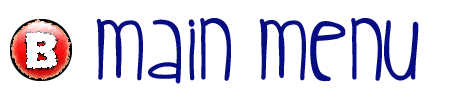
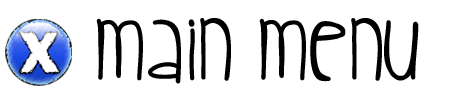
- Added undo in options screen

Changed region(s): [[0.56, 0.18, 0.9333, 0.81], [0.2178, 0.18, 0.5289, 0.84], [0.0, 0.18, 0.1867, 0.87]]

diff --git a/WindowsGame2/WindowsGame2/WindowsGame2/Screens/OptionsMenuScreen.cs b/WindowsGame2/WindowsGame2/WindowsGame2/Screens/OptionsMenuScreen.cs
@@ -63,6 +63,8 @@ namespace WindowsGame2.Screens
         InputAction UpPad;
         InputAction DownPad;
         InputAction BackAction;
+        InputAction SelectAction;
+        InputAction UndoAction;
 
         #endregion
 
@@ -93,8 +95,16 @@ namespace WindowsGame2.Screens
                     new Keys[] { Keys.Down },
                     true);
             BackAction = new InputAction(
-                    new Buttons[] { Buttons.B, Buttons.Back },
-                    new Keys[] { Keys.Escape },
+                    new Buttons[] { Buttons.X, Buttons.Back },
+                    new Keys[] { Keys.X, Keys.Escape },
+                    true);
+            SelectAction = new InputAction(
+                    new Buttons[] { Buttons.A },
+                    new Keys[] { Keys.A },
+                    true);
+            UndoAction = new InputAction(
+                    new Buttons[] { Buttons.B },
+                    new Keys[] { Keys.B },
                     true);
         }
 
@@ -179,7 +189,7 @@ namespace WindowsGame2.Screens
                 for (int j = 0; j < _StringsPositions[i].Length; j++)
                 {
                     postit = _PostitsPositions[i][j];
-                    _StringsPositions[i][j] = new Rectangle(postit.Left, postit.Bottom + verticalOffset, 350, 70);
+                    _StringsPositions[i][j] = new Rectangle(postit.Left + 60, postit.Bottom + verticalOffset, 350, 70);
                 }
             }
 
@@ -283,22 +293,28 @@ namespace WindowsGame2.Screens
                     ScreenManager.ShowScreen<MainMenuScreen>();
                     return;
                 }
-                // Ignore everything if color has been selected already
-                if (_didSelectColor[i])
-                {
-                    continue;
-                }
+                
                 // Select the car and colors
-                if (input.DidTouchButton(Buttons.A, i) || input.DidTouchKey(Keys.A, i))
+                if (SelectAction.Evaluate(input, (PlayerIndex)i, out playerIndex))
                 {
                     if (CanSelectColor(i, _selectedColors[i]))
                     {
                         _didSelectColor[i] = true;
                     }
-                    else
+                }
+
+                if (UndoAction.Evaluate(input, (PlayerIndex)i, out playerIndex))
+                {
+                    if (_didSelectColor[i])
                     {
-                        //Console.WriteLine("Putative problem: " + i);
+                        _didSelectColor[i] = false;
                     }
+                }
+
+                // Ignore everything else if color has been selected already
+                if (_didSelectColor[i])
+                {
+                    continue;
                 }
 
                 if (RightPad.Evaluate(input, (PlayerIndex)i, out playerIndex))
